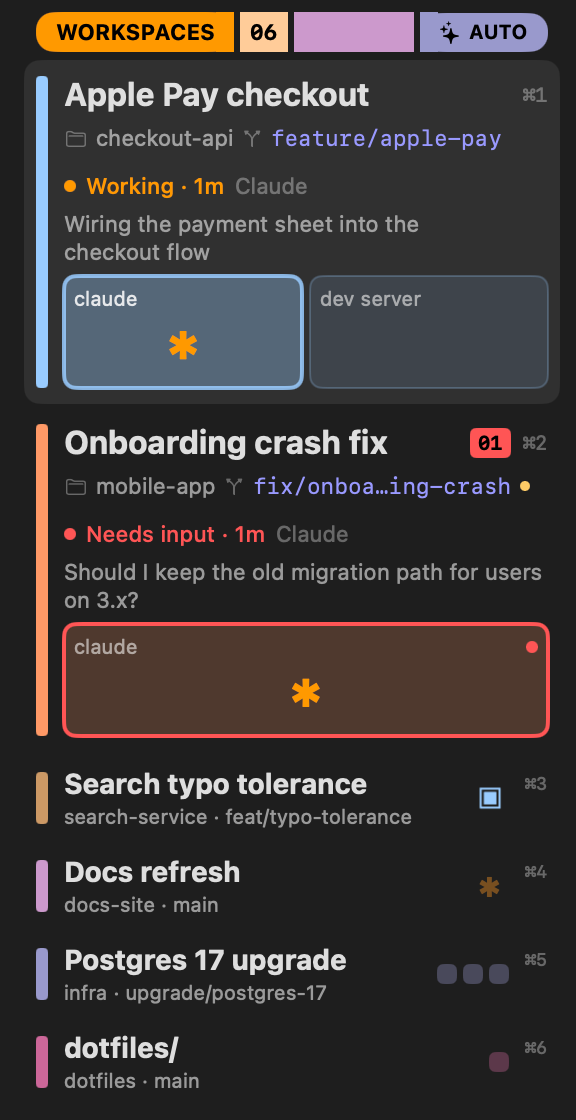
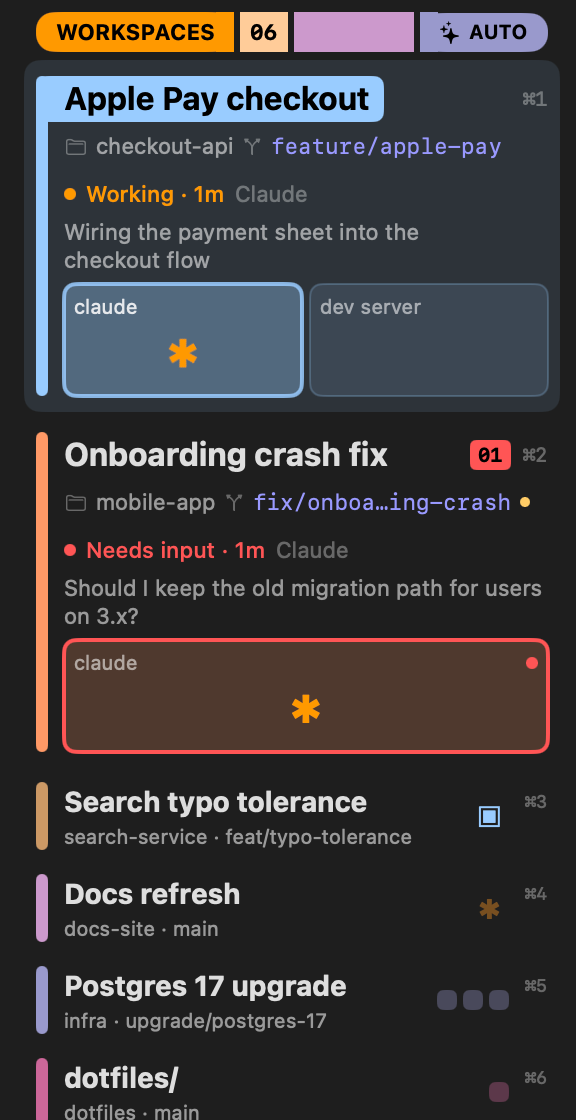
Show the selected workspace as an LCARS elbow
The stripe now has pill ends, and on the selected workspace it turns
right behind the name, which is lettered in black, or white on a dark
workspace colour. The name lines up with the rows below whether or not
it is selected. The selected card is tinted with its own colour instead
of white, and the mode button has a lit copy that shows on hover.

diff --git a/lcars.js b/lcars.js
@@ -104,6 +104,20 @@ function hashColor(key) {
   return PALETTE[Math.abs(h) % PALETTE.length];
 }
 
+// Black or white, whichever reads better on `hex`: workspace colours set
+// in cmux can be dark, unlike the LCARS ones.
+function inkOn(hex) {
+  let h = /^#([0-9a-f]{3,8})$/i.exec(hex ?? "")?.[1] ?? "";
+  if (h.length === 3) h = h.replace(/./g, "$&$&");
+  if (h.length < 6) return "black";
+  const lum = [0, 2, 4].map((i) => {
+    const c = parseInt(h.slice(i, i + 2), 16) / 255;
+    return c <= 0.03928 ? c / 12.92 : Math.pow((c + 0.055) / 1.055, 2.4);
+  });
+  const l = 0.2126 * lum[0] + 0.7152 * lum[1] + 0.0722 * lum[2];
+  return (l + 0.05) / 0.05 >= 1.05 / (l + 0.05) ? "black" : "white";
+}
+
 function accent(w) {
   if (!w) return "#7f7f7f";
   return w.color || hashColor(w.id);
@@ -313,6 +327,27 @@ function shortcutHint(w, size) {
     .lineLimit(1).fixedSize().layoutPriority(2);
 }
 
+// A workspace's colour stripe, and the gap from it to the text.
+const STRIPE = 6;
+const ELBOW_INSET = STRIPE + 8;
+
+// The workspace name, laid over the top of the stripe. When selected the
+// stripe turns right behind it, an LCARS elbow, with the name in black (or
+// white on a dark colour); the lettering stays in line with the rows below
+// either way.
+function elbowTitle(w, size, pad) {
+  const selected = () => !!w()?.selected;
+  return Text(() => workspaceTitle(w()))
+    .font(size).weight("bold")
+    .lineLimit(1).truncation("tail").marquee()
+    .color(() => (selected() ? inkOn(accent(w())) : "#FFFFFFD9"))
+    .paddingLeading(ELBOW_INSET)
+    .paddingTrailing(() => (selected() ? 7 : 0))
+    .paddingVertical(pad)
+    .background(() => (selected() ? accent(w()) : null))
+    .cornerRadius(5);
+}
+
 function card(w) {
   const selected = () => !!w()?.selected;
   const folder = () => basename(w()?.directory);
@@ -323,10 +358,7 @@ function card(w) {
   const body = VStack({ spacing: 5 }, [
     // Title row: name, then pin / unread badge.
     HStack({ spacing: 6 }, [
-      Text(() => workspaceTitle(w()))
-        .font(16).weight("bold")
-        .lineLimit(1).truncation("tail").marquee()
-        .color(() => (selected() ? "primary" : "#FFFFFFD9")),
+      elbowTitle(w, 16, 2),
       Spacer({ minLength: 0 }),
       Image("pin.fill")
         .font(9).color("tertiary")
@@ -334,73 +366,74 @@ function card(w) {
       unreadBlock(w, 10),
       shortcutHint(w, 10),
     ]),
-
-    // Folder and branch.
-    HStack({ spacing: 4 }, [
-      Image("folder").font(9).color("tertiary"),
-      Text(folder).font(11).color("secondary").lineLimit(1).truncation("tail"),
-      Image("arrow.triangle.branch").font(9).color("tertiary")
-        .opacity(() => (branch() ? 1 : 0)),
-      Text(branch).font(11).monospaced().color(LCARS.periwinkle)
-        .lineLimit(1).truncation("middle"),
-      Circle({ size: 5 }).fill(() => (branch() && w()?.dirty ? LCARS.gold : "clear")),
-      Spacer({ minLength: 0 }),
-    ]),
-
-    // Several live sessions: one line each.
-    VStack({ spacing: 1 }, [
-      ForEach(
-        { items: () => { const s = sessions(w()); return s.length > 1 ? s : []; }, key: (s) => s.key },
-        (s) => sessionRow(w, s)
-      ),
-    ]),
-
-    // A single live session: one status line.
-    when(() => (sessions(w()).length === 1 ? statusLine(w()) : null), "status", (s) =>
-      HStack({ spacing: 5 }, [
-        Circle({ size: 6 }).fill(() => s().color),
-        Text(() => s().text).font(11).weight("medium").color(() => s().color)
-          .lineLimit(1).fixedSize().layoutPriority(2),
-        Text(() => s().who).font(11).color("tertiary").lineLimit(1).truncation("tail"),
+    VStack({ spacing: 5 }, [
+      // Folder and branch.
+      HStack({ spacing: 4 }, [
+        Image("folder").font(9).color("tertiary"),
+        Text(folder).font(11).color("secondary").lineLimit(1).truncation("tail"),
+        Image("arrow.triangle.branch").font(9).color("tertiary")
+          .opacity(() => (branch() ? 1 : 0)),
+        Text(branch).font(11).monospaced().color(LCARS.periwinkle)
+          .lineLimit(1).truncation("middle"),
+        Circle({ size: 5 }).fill(() => (branch() && w()?.dirty ? LCARS.gold : "clear")),
         Spacer({ minLength: 0 }),
-      ])
-    ),
+      ]),
 
-    // Last agent message.
-    when(message, "message", (m) =>
-      HStack({ spacing: 0 }, [
-        Text(() => m()).font(11).color("secondary").lineLimit(2).truncation("tail"),
-        Spacer({ minLength: 0 }),
-      ])
-    ),
+      // Several live sessions: one line each.
+      VStack({ spacing: 1 }, [
+        ForEach(
+          { items: () => { const s = sessions(w()); return s.length > 1 ? s : []; }, key: (s) => s.key },
+          (s) => sessionRow(w, s)
+        ),
+      ]),
 
-    // Minimap: one tile per terminal.
-    HStack({ spacing: 4 }, [
-      ForEach(
-        { items: () => (w()?.tabs ?? []).slice(0, MAX_TILES), key: (t) => t.id },
-        (t) => tile(w, t)
+      // A single live session: one status line.
+      when(() => (sessions(w()).length === 1 ? statusLine(w()) : null), "status", (s) =>
+        HStack({ spacing: 5 }, [
+          Circle({ size: 6 }).fill(() => s().color),
+          Text(() => s().text).font(11).weight("medium").color(() => s().color)
+            .lineLimit(1).fixedSize().layoutPriority(2),
+          Text(() => s().who).font(11).color("tertiary").lineLimit(1).truncation("tail"),
+          Spacer({ minLength: 0 }),
+        ])
       ),
-      when(() => (extra() > 0 ? "+" + extra() : ""), "extra", (n) =>
-        Text(() => n()).font(10).monospaced().color("tertiary").fixedSize()
+
+      // Last agent message.
+      when(message, "message", (m) =>
+        HStack({ spacing: 0 }, [
+          Text(() => m()).font(11).color("secondary").lineLimit(2).truncation("tail"),
+          Spacer({ minLength: 0 }),
+        ])
       ),
-    ]),
+
+      // Minimap: one tile per terminal.
+      HStack({ spacing: 4 }, [
+        ForEach(
+          { items: () => (w()?.tabs ?? []).slice(0, MAX_TILES), key: (t) => t.id },
+          (t) => tile(w, t)
+        ),
+        when(() => (extra() > 0 ? "+" + extra() : ""), "extra", (n) =>
+          Text(() => n()).font(10).monospaced().color("tertiary").fixedSize()
+        ),
+      ]),
+    ]).paddingLeading(ELBOW_INSET),
   ])
     .paddingVertical(8)
-    .paddingLeading(8)
     .paddingTrailing(6)
     .frame({ maxWidth: "infinity" });
 
-  return HStack({ spacing: 0 }, [
-    RoundedRectangle({ cornerRadius: 2 })
+  // The body is laid over the stripe so the elbow can grow out of it.
+  return HStack({ spacing: -STRIPE }, [
+    RoundedRectangle({ cornerRadius: STRIPE / 2 })
       .fill(() => accent(w()))
-      .frame({ width: 6 })
+      .frame({ width: STRIPE })
       .paddingVertical(8),
     body,
   ])
     .paddingLeading(6)
     .cornerRadius(8)
-    .background(() => (selected() ? "#FFFFFF14" : null))
-    .hoverBackground(() => (selected() ? "#FFFFFF14" : "#FFFFFF0A"))
+    .background(() => (selected() ? accent(w()) + "1F" : null))
+    .hoverBackground(() => (selected() ? accent(w()) + "1F" : "#FFFFFF0A"))
     .frame({ maxWidth: "infinity" })
     .onTap(() => cmux("workspace.select", { workspace_id: w().id }))
     .contextMenu(cardMenu(w));
@@ -506,26 +539,25 @@ function compactCard(w) {
   };
 
   return HStack({ spacing: 8 }, [
-    RoundedRectangle({ cornerRadius: 2 })
-      .fill(() => accent(w()))
-      .frame({ width: 6, height: 26 }),
-    VStack({ spacing: 2 }, [
-      HStack({ spacing: 5 }, [
-        Text(() => workspaceTitle(w()))
-          .font(14).weight("bold")
-          .lineLimit(1).truncation("tail").marquee()
-          .color(() => (selected() ? "primary" : "#FFFFFFD9")),
-        Spacer({ minLength: 0 }),
-        Image("pin.fill")
-          .font(8).color("tertiary")
-          .opacity(() => (w()?.pinned ? 1 : 0)),
-        unreadBlock(w, 9),
-      ]),
-      HStack({ spacing: 4 }, [
-        Text(subtitle)
-          .font(10).color("secondary")
-          .lineLimit(1).truncation("middle"),
-        Spacer({ minLength: 0 }),
+    HStack({ spacing: -STRIPE }, [
+      RoundedRectangle({ cornerRadius: STRIPE / 2 })
+        .fill(() => accent(w()))
+        .frame({ width: STRIPE }),
+      VStack({ spacing: 2 }, [
+        HStack({ spacing: 5 }, [
+          elbowTitle(w, 14, 1),
+          Spacer({ minLength: 0 }),
+          Image("pin.fill")
+            .font(8).color("tertiary")
+            .opacity(() => (w()?.pinned ? 1 : 0)),
+          unreadBlock(w, 9),
+        ]),
+        HStack({ spacing: 4 }, [
+          Text(subtitle)
+            .font(10).color("secondary")
+            .lineLimit(1).truncation("middle"),
+          Spacer({ minLength: 0 }),
+        ]).paddingLeading(ELBOW_INSET),
       ]),
     ]),
     // Minimap, centred on the row's height.
@@ -545,8 +577,8 @@ function compactCard(w) {
     .paddingVertical(5)
     .paddingHorizontal(6)
     .cornerRadius(7)
-    .background(() => (selected() ? "#FFFFFF14" : null))
-    .hoverBackground(() => (selected() ? "#FFFFFF14" : "#FFFFFF0A"))
+    .background(() => (selected() ? accent(w()) + "1F" : null))
+    .hoverBackground(() => (selected() ? accent(w()) + "1F" : "#FFFFFF0A"))
     .frame({ maxWidth: "infinity" })
     .onTap(() => cmux("workspace.select", { workspace_id: w().id }))
     .contextMenu(cardMenu(w));
@@ -574,6 +606,26 @@ function expanded(w) {
   return !!w?.selected || wantsAttention(w);
 }
 
+// The mode button as an LCARS block in `fill`: square at the left, where
+// it meets the bar, and a pill end at the right.
+function modeBlock(fill) {
+  const pill = 9;
+  return HStack({ spacing: -pill }, [
+    Rectangle().fill(fill).frame({ width: pill, height: 20 }),
+    HStack({ spacing: 4 }, [
+      Image(() => mode().icon).font(10).weight("bold").color("black"),
+      Text(() => mode().label.toUpperCase()).font(10).weight("bold").color("black")
+        .lineLimit(1).fixedSize(),
+    ])
+      .paddingLeading(pill)
+      .paddingTrailing(10)
+      .paddingVertical(3)
+      .fixedSize()
+      .background(fill)
+      .cornerRadius(pill),
+  ]);
+}
+
 // An LCARS header bar: solid colour blocks with black lettering, pill ends
 // on the outside and square ends where blocks meet.
 function header() {
@@ -594,21 +646,9 @@ function header() {
       .fixedSize()
       .background(LCARS.peach),
     Rectangle().fill(LCARS.lavender).frame({ maxWidth: "infinity", height: 20 }),
-    // Here the square block sits under the pill's inner end.
-    HStack({ spacing: -pill }, [
-      Rectangle().fill(LCARS.slate).frame({ width: pill, height: 20 }),
-      HStack({ spacing: 4 }, [
-        Image(() => mode().icon).font(10).weight("bold").color("black"),
-        Text(() => mode().label.toUpperCase()).font(10).weight("bold").color("black")
-          .lineLimit(1).fixedSize(),
-      ])
-        .paddingLeading(pill)
-        .paddingTrailing(10)
-        .paddingVertical(3)
-        .fixedSize()
-        .background(LCARS.slate)
-        .cornerRadius(pill),
-    ])
+    // The lit copy shows on hover. A square block under each pill's inner
+    // end squares it off, so it is drawn in the same colour as the pill.
+    ZStack({}, [modeBlock(LCARS.slate), modeBlock(LCARS.periwinkle).showOnHover()])
       .cursor("pointer")
       .onTap(() => setModeIndex((modeIndex() + 1) % MODES.length)),
   ]).frame({ height: 20 }).paddingHorizontal(6).paddingVertical(2);
